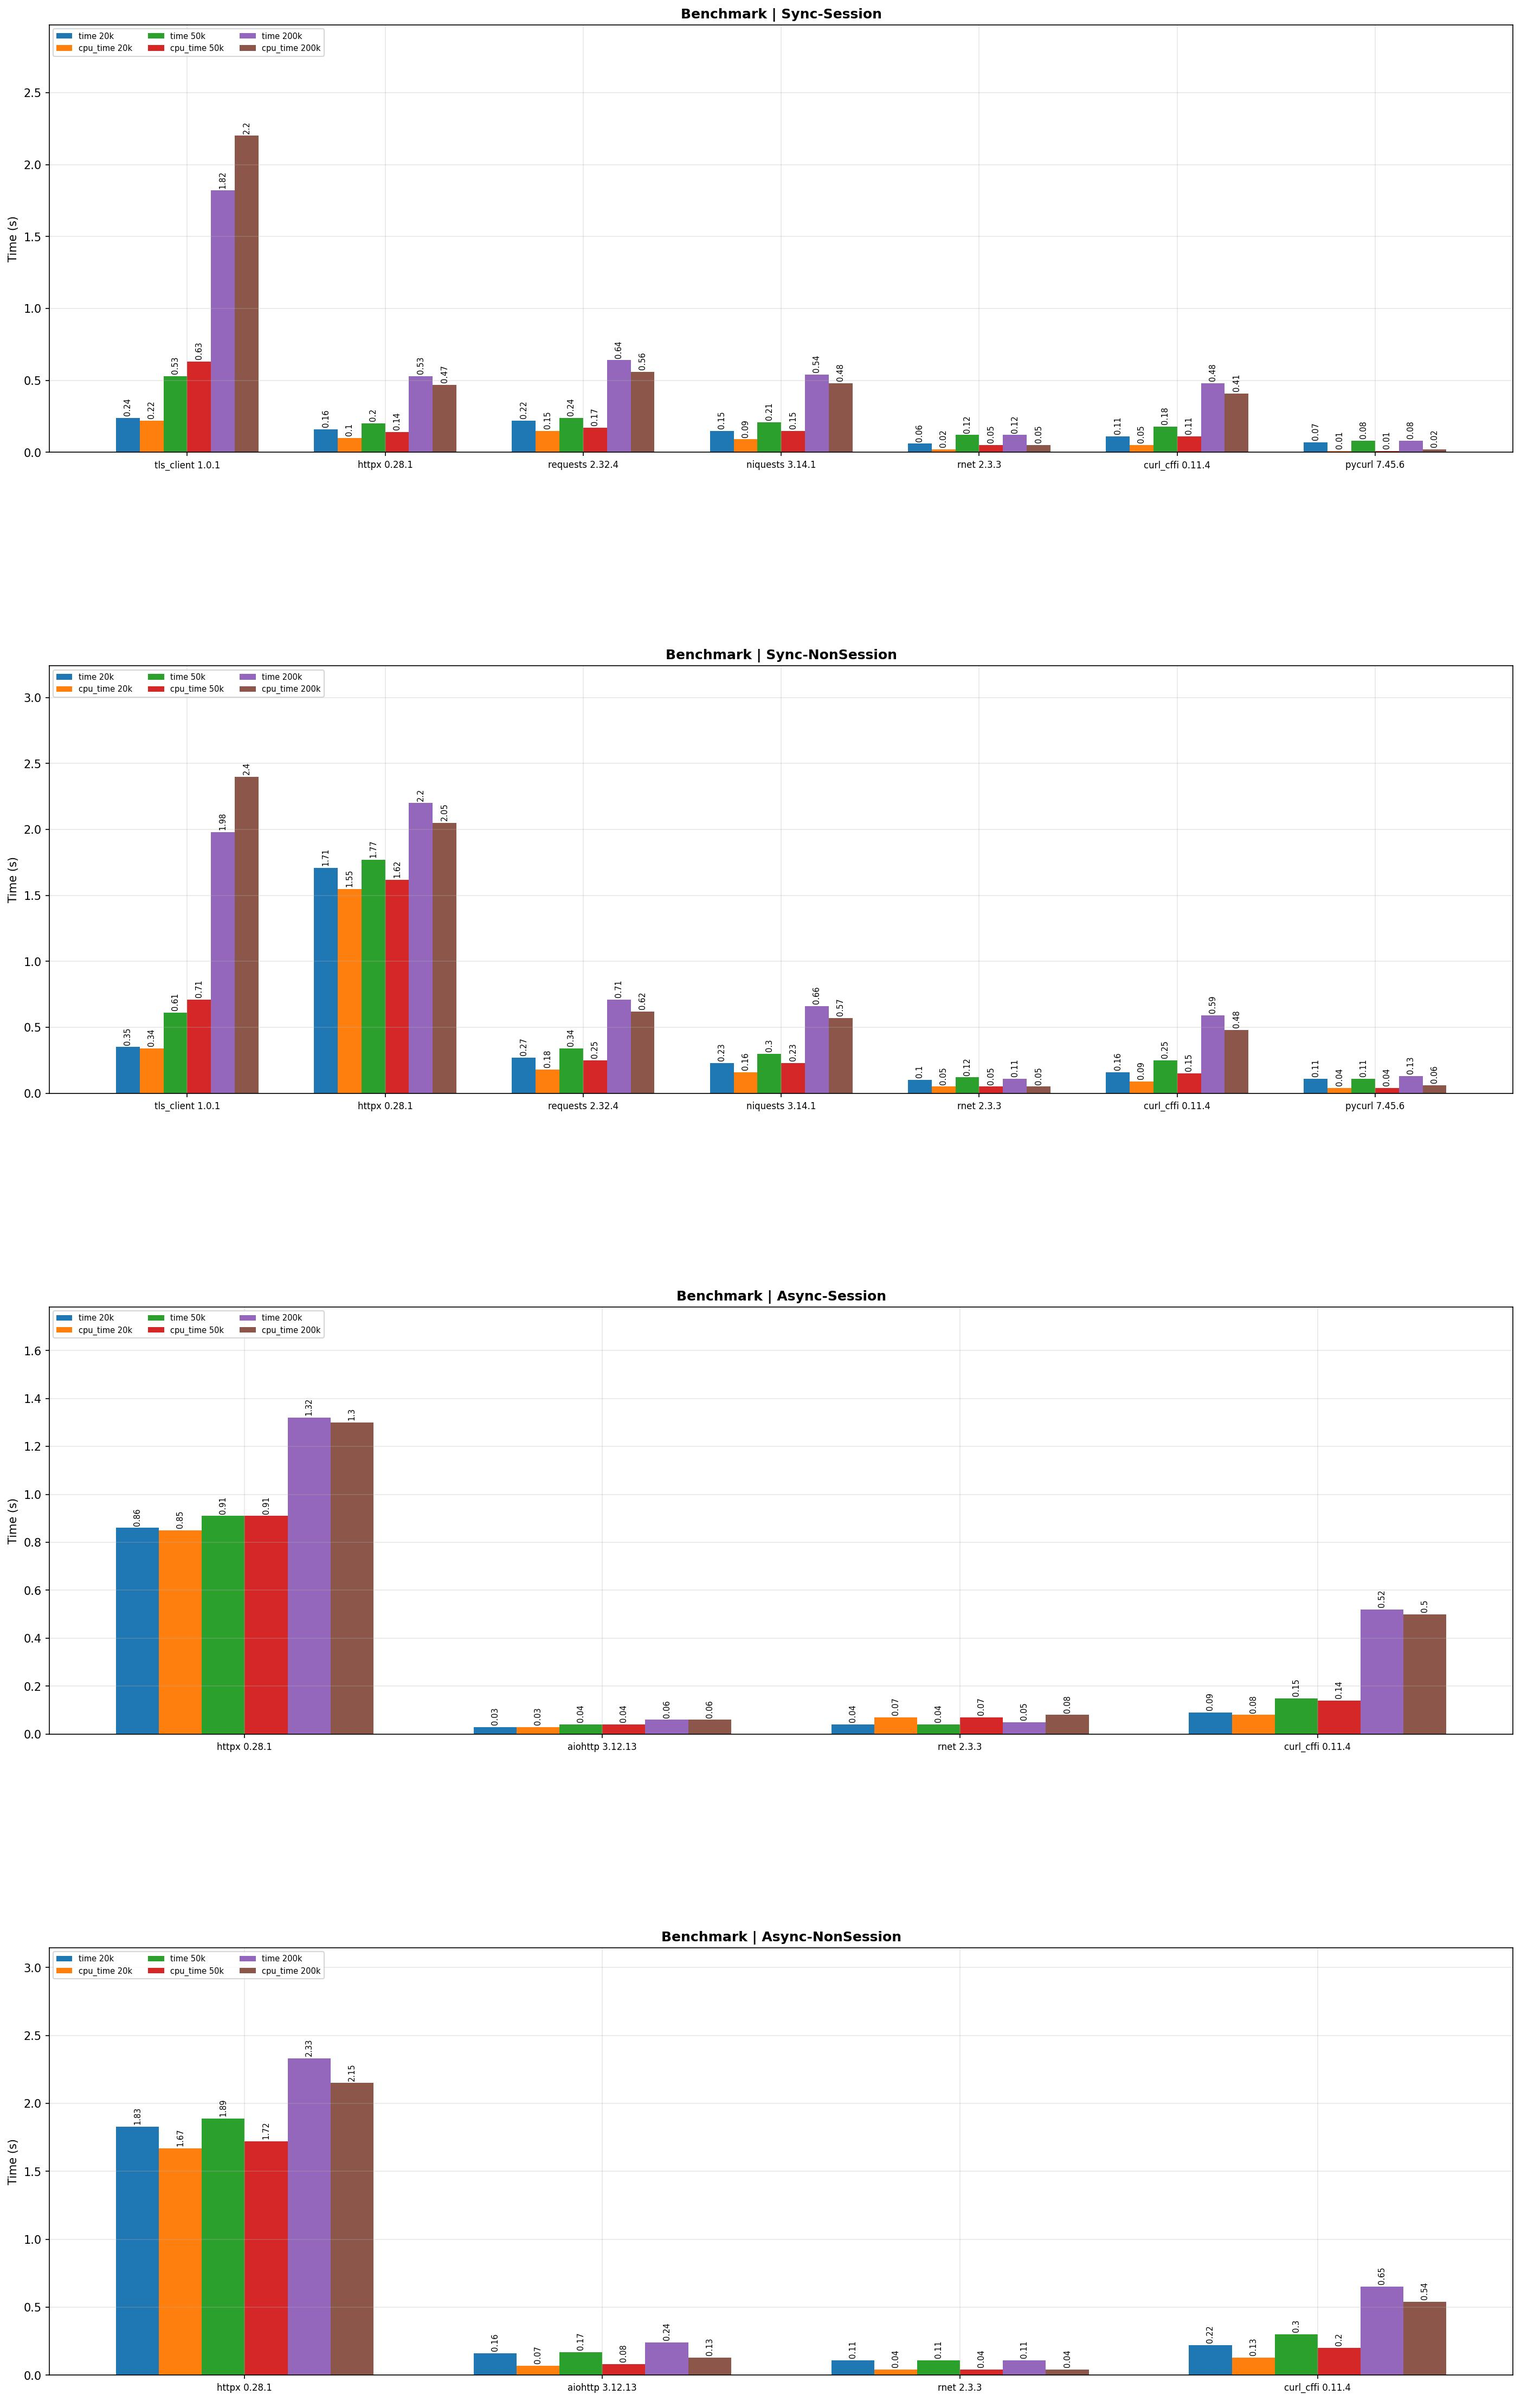
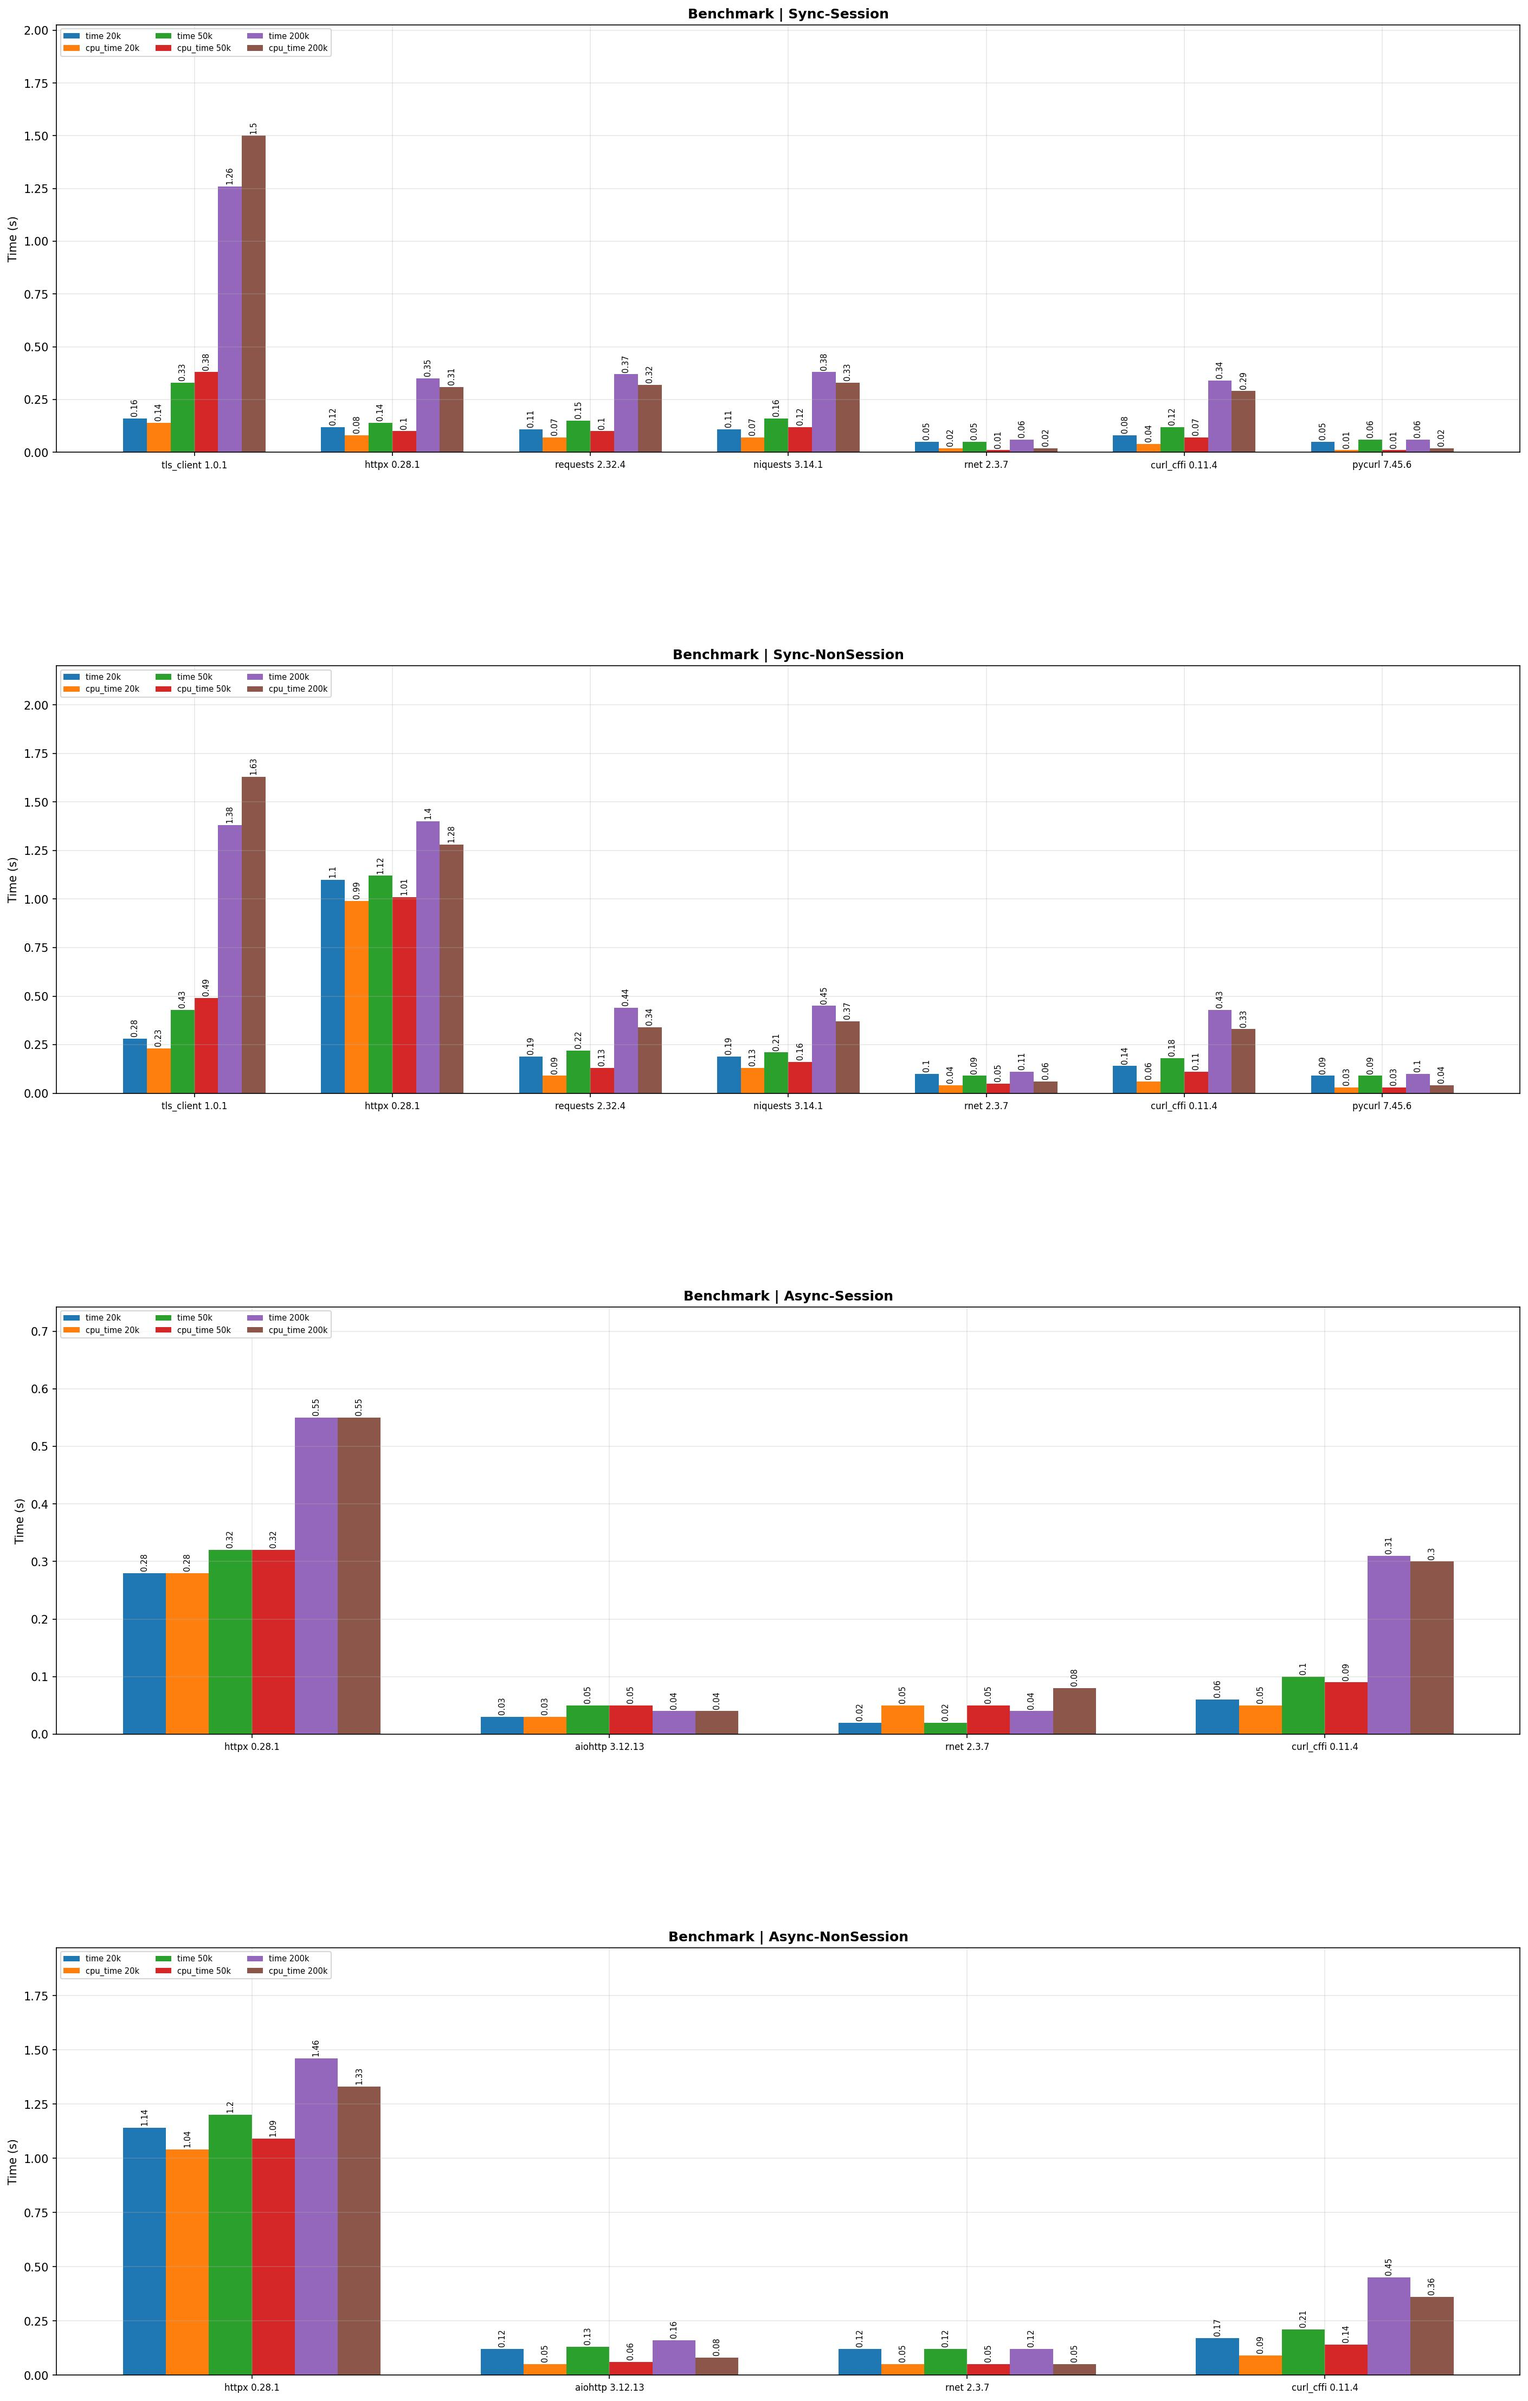
benchmark: Fix latest version of aiohttp benchmark

diff --git a/benchmark/bench.py b/benchmark/bench.py
@@ -17,7 +17,6 @@ import requests
 import tls_client
 import curl_cffi
 import curl_cffi.requests
-import seaborn as sns
 import rnet
 
 
@@ -53,7 +52,10 @@ def session_get_test(session_class, url, requests_number):
     s = session_class()
     try:
         for _ in range(requests_number):
-            s.get(url).text
+            if session_class.__name__ == "BlockingClient":
+                s.get(url).bytes()
+            else:
+                s.get(url).text
     finally:
         if hasattr(s, "close"):
             s.close()
@@ -63,7 +65,10 @@ def non_session_get_test(session_class, url, requests_number):
     for _ in range(requests_number):
         s = session_class()
         try:
-            s.get(url).text
+            if session_class.__name__ == "BlockingClient":
+                s.get(url).bytes()
+            else:
+                s.get(url).text
         finally:
             if hasattr(s, "close"):
                 s.close()
@@ -73,7 +78,10 @@ async def async_session_get_test(session_class, url, requests_number):
     async def aget(s, url):
         if session_class.__module__ == "aiohttp.client":
             async with s.get(url) as resp:
-                return await resp.text()
+                return await resp.read()
+        if session_class.__name__ == "Client":
+            resp = await s.get(url)
+            return await resp.bytes()
         else:
             resp = await s.get(url)
             return resp.text
@@ -96,7 +104,10 @@ async def async_non_session_get_test(session_class, url, requests_number):
     async def aget(s, url):
         if session_class.__module__ == "aiohttp.client":
             async with s.get(url) as resp:
-                return await resp.text()
+                return await resp.read()
+        if session_class.__name__ == "Client":
+            resp = await s.get(url)
+            return await resp.bytes()
         else:
             resp = await s.get(url)
             return resp.text
@@ -398,7 +409,7 @@ def plot_benchmark_multi(df, filename):
 
 def main():
     response_sizes = ["20k", "50k", "200k"]
-    requests_number = 300
+    requests_number = 200
     thread_counts = [1, 8, 32]
 
     sync_packages = [

diff --git a/benchmark/README.md b/benchmark/README.md
@@ -1,5 +1,4 @@
-Benchmark
-======
+# Benchmark
 
 benchmark between rnet and other python http clients
 
@@ -27,3 +26,16 @@ Target
 
 
 All the clients run with session/client enabled.
+
+## Run benchmark
+
+```bash
+# Install dependencies  
+pip install -r requirements.txt
+
+# Start server
+python server.py
+
+# Start benchmark
+python bench.py
+```
